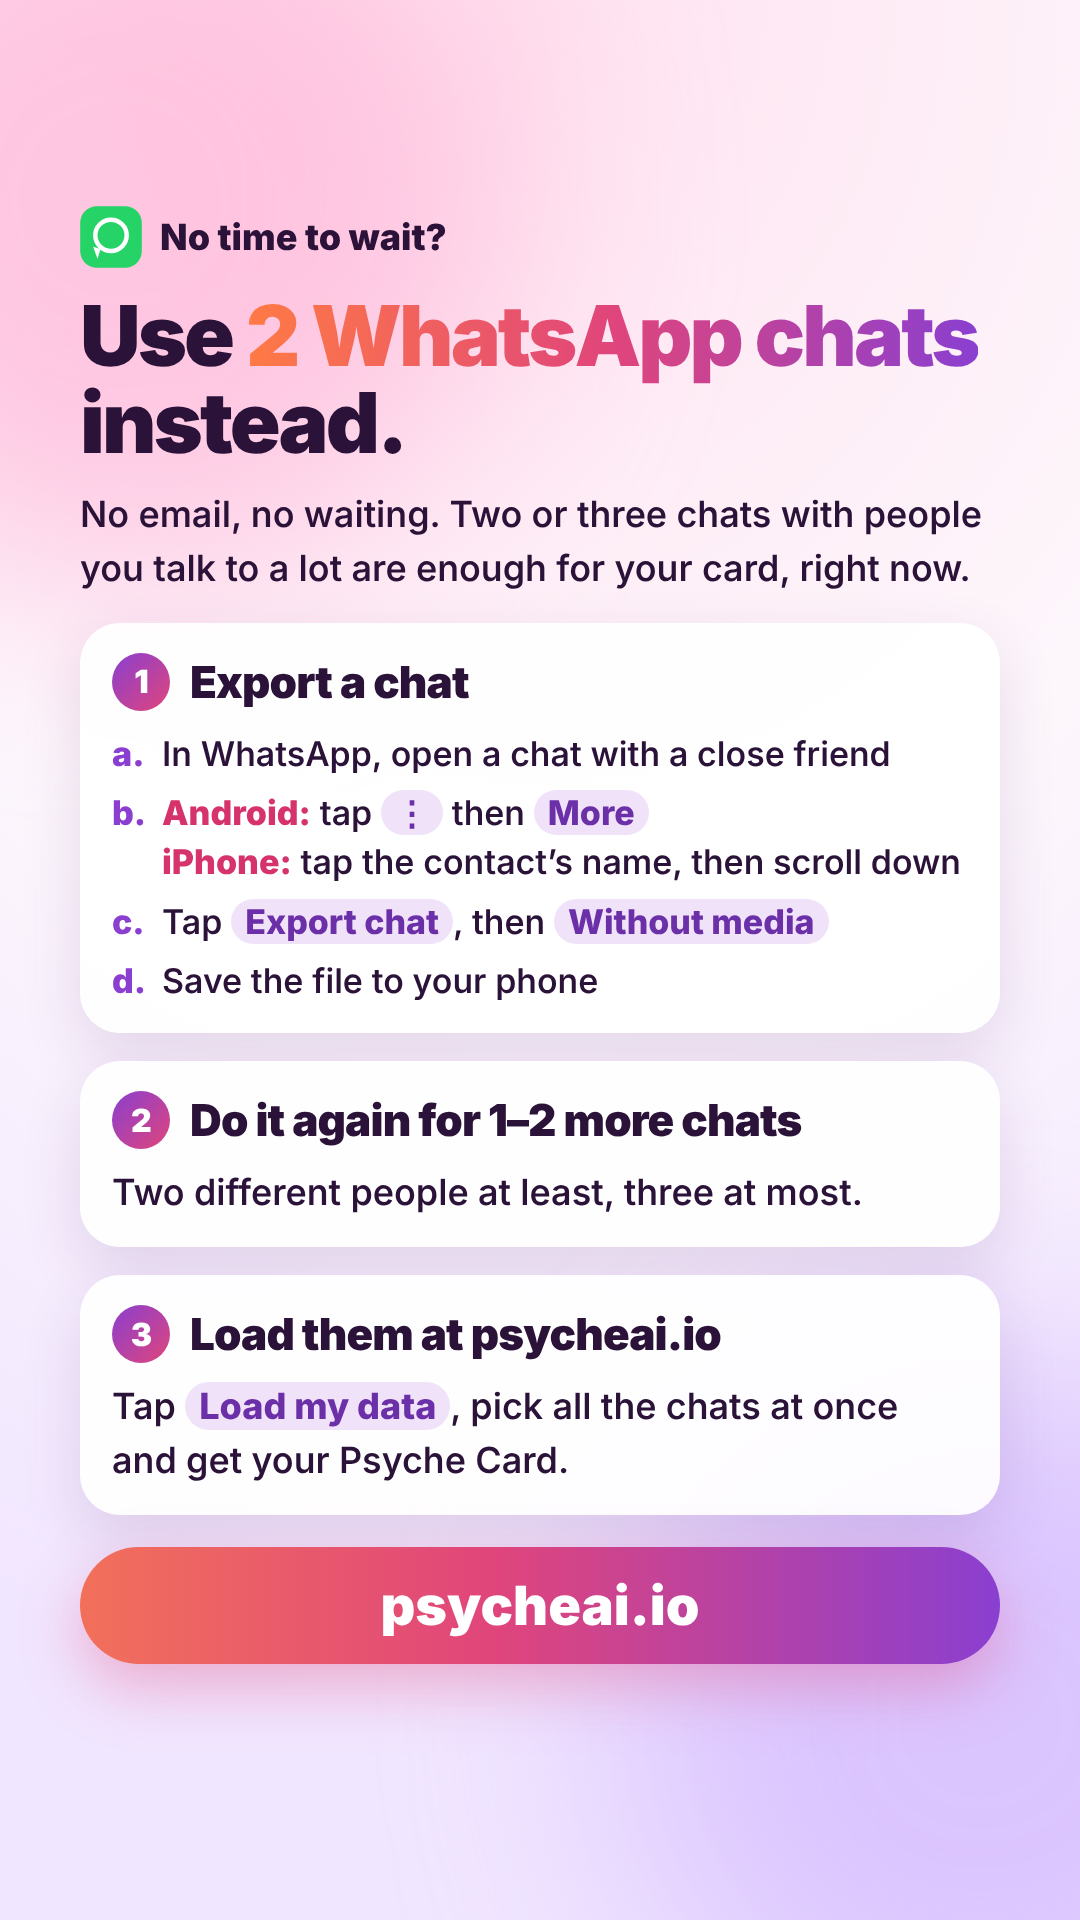
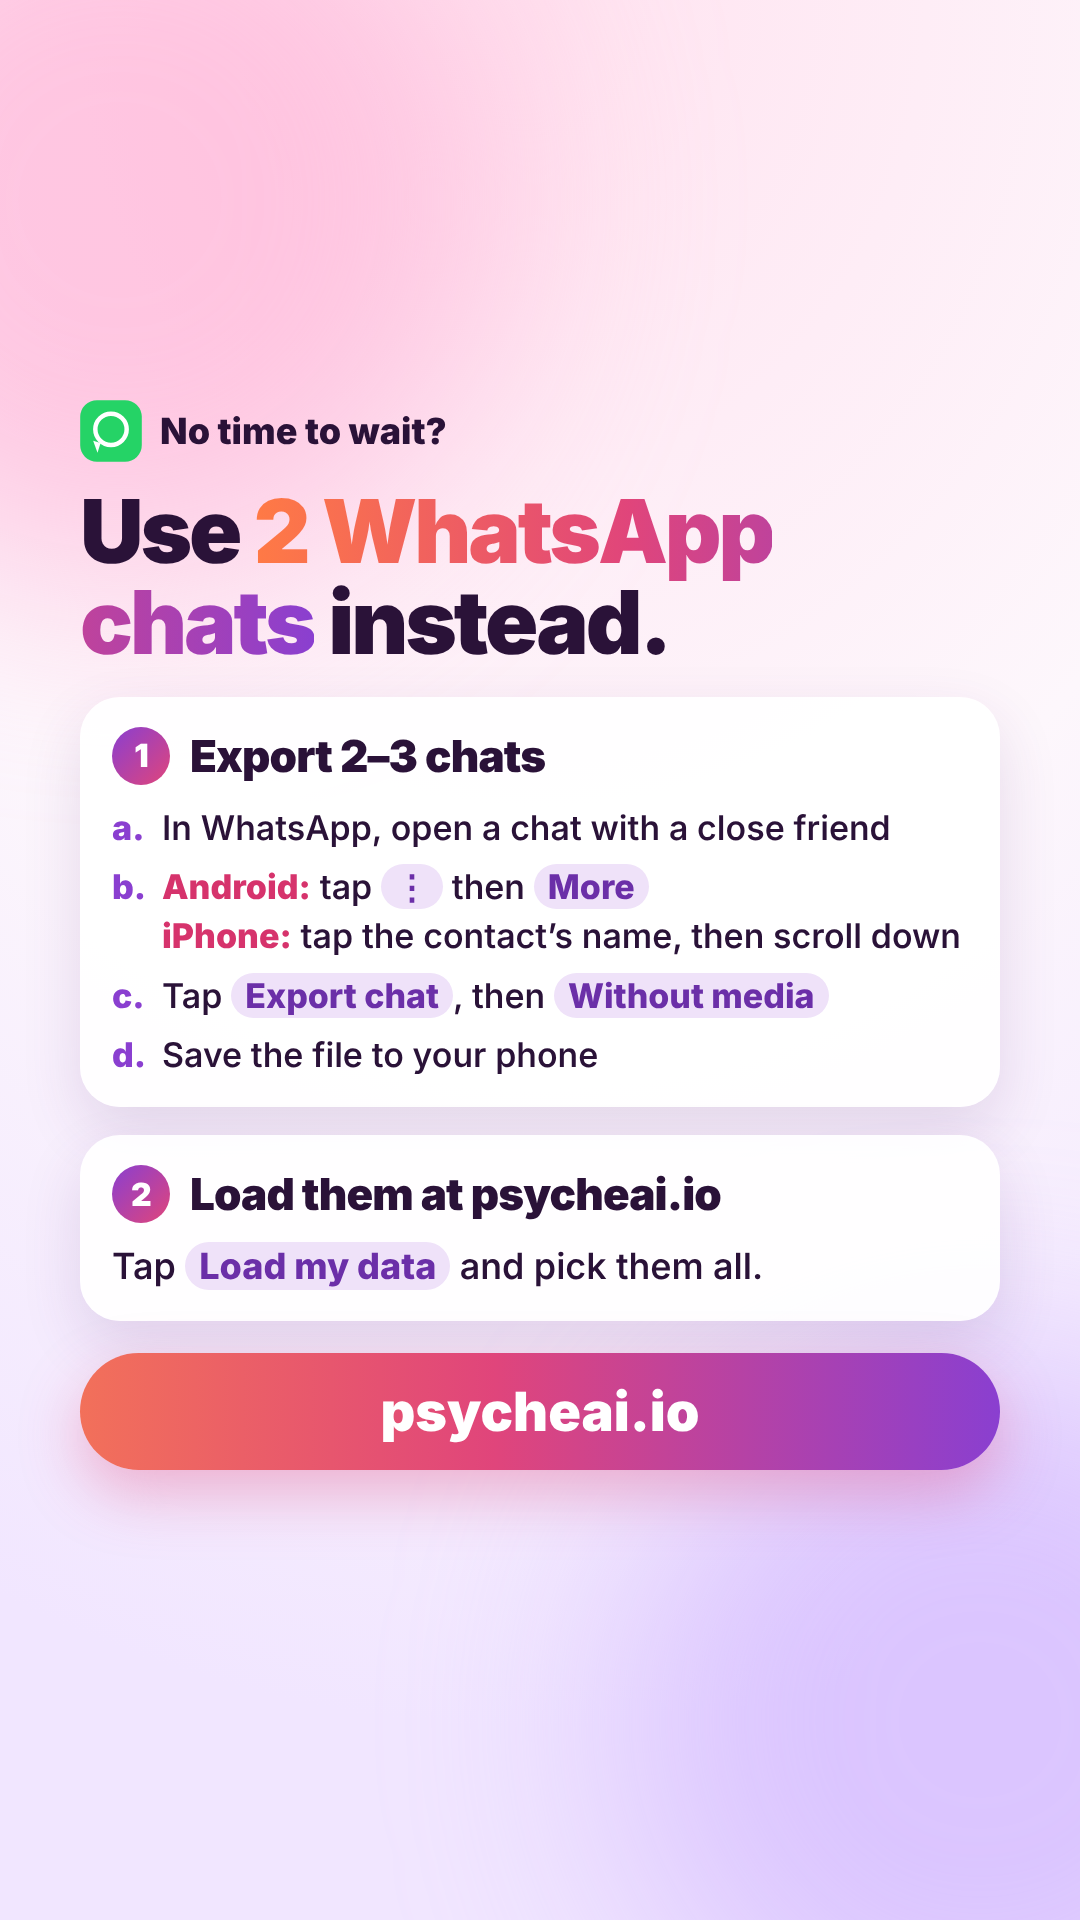
One status ring on every source row; front-page step wording; shorter story 5
- Add your data: every row shows one ring, empty until loaded, then green
  with a tick; WhatsApp's is in three parts, amber at one chat, green with
  the tick from two.
- How it works: no "(Google data is optional)", no "which writes your
  report", "Ask PsycheAI anything about yourself" under Gain insights, and
  no "Free." under Psyche Sync.
- Review: "Download (16KB)".
- Story start-5: a heading and two steps; step 1 keeps the full Android and
  iPhone taps.

Claude-Session: https://claude.ai/code/session_01JG1d877BBZBRM36WtZBvXb

Changed region(s): [[0.0611, 0.0938, 0.9472, 0.9062]]

diff --git a/docs/styles.css b/docs/styles.css
@@ -4755,17 +4755,34 @@ details.more[open] > summary::after { content: ' ▴'; }
 .ds-group.is-met::after { content: ' ✓'; }
 :root[data-theme="dark"] .ds-group.is-met { color: #6fd39b; }
 @media (prefers-color-scheme: dark) { :root:not([data-theme="light"]) .ds-group.is-met { color: #6fd39b; } }
-/* Not loaded yet: an empty ring where the tick will be. */
+/* One ring on every row (26 October 2026): empty until loaded, then green with a tick. WhatsApp's ring is
+   in three parts, one a chat, amber until the two it needs are in, then green with the tick. It replaced a
+   tick for single files beside three purple dots for the chats. */
 .datasources-dialog .mode-option:not(.is-added):not([data-datasource="whatsapp"])::after {
-  content: ''; margin-left: auto; flex: none; width: 1rem; height: 1rem; border-radius: 50%;
-  border: 1.5px solid var(--line);
+  content: ''; margin-left: auto; flex: none; box-sizing: border-box; width: 1.3rem; height: 1.3rem; border-radius: 50%;
+  border: 2.5px solid var(--line);
 }
-/* WhatsApp's chats as three dots, filled as they load; the third is a bonus,
-   so its ring is dashed. The count in words stays for screen readers. */
-.ds-dots { display: inline-flex; margin-left: auto; gap: .25rem; flex: none; align-self: center; }
-.ds-dots i { width: .62rem; height: .62rem; border-radius: 50%; border: 1.5px solid var(--accent); }
-.ds-dots i:nth-child(3) { border-style: dashed; }
-.ds-dots[data-n="1"] i:nth-child(1), .ds-dots[data-n="2"] i:nth-child(-n+2), .ds-dots[data-n="3"] i { background: var(--accent); }
+.datasources-dialog .mode-added {
+  display: grid; place-items: center; box-sizing: border-box; width: 1.3rem; height: 1.3rem; border-radius: 50%;
+  border: 2.5px solid var(--good); background: radial-gradient(circle, var(--good) 0 56%, transparent 60%);
+  color: #fff; font-size: .62rem; font-weight: 900;
+}
+.ds-dots { position: relative; display: block; margin-left: auto; flex: none; align-self: center; width: 1.3rem; height: 1.3rem;
+  --s1: var(--line); --s2: var(--line); --s3: var(--line); }
+.ds-dots i { display: none; }
+.ds-dots::before {
+  content: ''; position: absolute; inset: 0; border-radius: 50%;
+  background: conic-gradient(var(--s1) 0 114deg, transparent 0 120deg, var(--s2) 0 234deg, transparent 0 240deg, var(--s3) 0 354deg, transparent 0);
+  -webkit-mask: radial-gradient(circle closest-side, transparent calc(100% - 2.5px), #000 calc(100% - 2.5px));
+  mask: radial-gradient(circle closest-side, transparent calc(100% - 2.5px), #000 calc(100% - 2.5px));
+}
+.ds-dots[data-n="1"] { --s1: #e8b44e; }
+.ds-dots[data-n="2"] { --s1: var(--good); --s2: var(--good); }
+.ds-dots[data-n="3"] { --s1: var(--good); --s2: var(--good); --s3: var(--good); }
+.ds-dots[data-n="2"]::after, .ds-dots[data-n="3"]::after {
+  content: '✓'; position: absolute; inset: 4px; display: grid; place-items: center; border-radius: 50%;
+  background: var(--good); color: #fff; font-size: .55rem; font-weight: 900; line-height: 1;
+}
 .datasources-dialog .mode-option[data-datasource="whatsapp"] .mode-added { display: none; }
 .datasources-dialog .mode-option[data-datasource="whatsapp"] .mode-body > .muted {
   position: absolute; width: 1px; height: 1px; overflow: hidden; clip: rect(0 0 0 0); white-space: nowrap;

diff --git a/promo/stories-stage.html b/promo/stories-stage.html
@@ -200,12 +200,12 @@ h2 { margin-top: 22px; font-size: 80px; font-weight: 900; letter-spacing: -0.035
 
 <section class="slide light guide" data-name="start-5">
   <div class="blob b1"></div><div class="blob b2"></div>
+  <!-- Shorter (26 October 2026): a heading, two steps, the address; step 1 keeps the full Android and iPhone taps. -->
   <div class="in" style="justify-content:center">
     <div class="brandline"><div class="ic wa" style="transform:scale(.56);margin:-24px"></div><span>No time to wait?</span></div>
-    <h2 class="gtitle" style="font-size:84px">Use <span class="grad">2 WhatsApp chats</span> instead.</h2>
-    <p class="gp" style="margin-top:20px;font-size:36px">No email, no waiting. Two or three chats with people you talk to a lot are enough for your card, right now.</p>
+    <h2 class="gtitle" style="font-size:88px">Use <span class="grad">2 WhatsApp chats</span> instead.</h2>
     <div class="gcard">
-      <div class="ghead"><span class="gnum">1</span>Export a chat</div>
+      <div class="ghead"><span class="gnum">1</span>Export 2–3 chats</div>
       <ol class="gsteps">
         <li><i>a.</i>In WhatsApp, open a chat with a close friend</li>
         <li><i>b.</i><strong>Android:</strong> tap <em>⋮</em> then <em>More</em><br><strong>iPhone:</strong> tap the contact’s name, then scroll down</li>
@@ -214,12 +214,8 @@ h2 { margin-top: 22px; font-size: 80px; font-weight: 900; letter-spacing: -0.035
       </ol>
     </div>
     <div class="gcard">
-      <div class="ghead"><span class="gnum">2</span>Do it again for 1–2 more chats</div>
-      <p class="gp">Two different people at least, three at most.</p>
-    </div>
-    <div class="gcard">
-      <div class="ghead"><span class="gnum">3</span>Load them at psycheai.io</div>
-      <p class="gp">Tap <em>Load my data</em>, pick all the chats at once and get your Psyche Card.</p>
+      <div class="ghead"><span class="gnum">2</span>Load them at psycheai.io</div>
+      <p class="gp">Tap <em>Load my data</em> and pick them all.</p>
     </div>
     <div class="gbtn">psycheai.io</div>
   </div>

diff --git a/docs/index.html b/docs/index.html
@@ -237,13 +237,13 @@
   <h2 class="row-head">How it works</h2>
   <div class="steps-row">
     <div class="step-card"><span class="step-num">1</span><h3>Load your IG data</h3>
-      <p>Download your data from Instagram, or export 2–3 WhatsApp chats (Google data is optional). See <a href="#request-data" class="step-below">below</a> for instructions.</p></div>
+      <p>Download your data from Instagram, or export 2–3 WhatsApp chats. See <a href="#request-data" class="step-below">below</a> for instructions.</p></div>
     <div class="step-card"><span class="step-num">2</span><h3>PsycheAI reads it</h3>
-      <p>A short, de-identified summary of your data is analysed by Google Vertex AI, which writes your report. No data is stored by PsycheAI.</p></div>
+      <p>A short, de-identified summary of your data is analysed by Google Vertex AI. No data is stored by PsycheAI.</p></div>
     <div class="step-card"><span class="step-num">3</span><h3>Gain insights</h3>
-      <p>Learn more about your personality, relationships, and career. Your report is private to your device.</p></div>
+      <p>Learn more about your personality, relationships, and career. Ask PsycheAI anything about yourself. Your report is private to your device.</p></div>
     <div class="step-card"><span class="step-num">4</span><h3>Psyche Sync</h3>
-      <p>Send connections your link and see what clicks between you, and how to relate better to each other. Free.</p></div>
+      <p>Send connections your link and see what clicks between you, and how to relate better to each other.</p></div>
   </div>
 
   <!-- The four branches are the report's own sections, named as the report

diff --git a/docs/copy.js b/docs/copy.js
@@ -868,7 +868,7 @@
       quality: 'Quality',
       qualities: ['Thin', 'Fair', 'Good', 'Strong'],
       // The download, with the size of what is sent (one row with the read quality, 26 October 2026).
-      download: kb => 'Download summary (' + kb + ' KB)',
+      download: kb => 'Download (' + kb + 'KB)',
       alsoLeftOut: 'Also left out',
     },
     freeUsedBlurb: 'This Instagram account has already had its free Psyche Card. Unlock your Psyche Card and Psyche Report for US$5.',

diff --git a/README.md b/README.md
@@ -1454,6 +1454,11 @@ file types the box now sorts by itself, and kept the help a first-timer needs at
 - Continue is set back (half strength) until a first upload has what it needs, and still says what is
   missing if pressed;
 - Restore from a backup sits under the buttons, out of Continue's way.
+- **One ring on every row** (26 October 2026, chosen from three mock-ups over a tick + count and a status
+  pill): an empty grey ring until a source is loaded, then green with a white tick. WhatsApp's ring is in
+  three parts, one a chat, amber at one chat and green with the tick from two, the minimum. It replaced a
+  green tick for single files beside three purple dots for the chats. Drawn in CSS on the same markup
+  (`.mode-added`, `.ds-dots[data-n]`), so nothing in app.js changed.
 
 The report page's popouts share the rows: no tags, no "Required" pill, the same rings and dots. Only
 Instagram kept a second line, *A new .zip replaces it – pick every part*, until 26 October 2026, when
@@ -5249,7 +5254,7 @@ it down as far as they like, line by line, and see what that costs. It was mocke
   Pressing it no longer takes the focus (pointerdown is cancelled); pressed, the word is added and the
   keyboard goes, while Enter keeps it up for the next word.
 - **The foot, one row** (26 October 2026): *Quality* (was *Read quality*), its bar and word, then
-  *Download summary (16 KB)*, the size in the link's own words (it was a line of its own, *~16 KB of text*
+  *Download (16KB)*, the size in the link's own words (it was a line of its own, *~16 KB of text*
   beside *Download what's sent*); on a phone under about 360px the link drops to a second line. The file
   is `psycheai-summary.html` (was `psycheai-digest-preview.html`) and says *summary*, the word the reels
   and the privacy page use. The *↑ Least personal / Most personal ↓* labels under the list are gone.

diff --git a/promo/README.md b/promo/README.md
@@ -459,8 +459,8 @@ four data sources it reads; the free card (Emily Carter's Mulan card, large, its
 card-char-mulan-parts.json); what else there is (report, Ask PsycheAI,
 Psyche Sync, the roast; "free to start" once, in the heading); the guide as the account's pinned post lays it out
 (every tap, each button a chip). Then, for a reader with no time to wait for Instagram's email (26 October 2026), the same guide for two
-WhatsApp chats instead: export a chat (Android ⋮ → More, iPhone the contact's name) → Export chat → Without media, again for
-one or two more people, then load them all at once. *Privacy* (4): two questions to a story, each answered in the FAQ's own words, shortened, so every claim stays
+WhatsApp chats instead, shortened the same day to two steps: export 2–3 chats (the full taps: Android ⋮ → More,
+iPhone the contact's name then scroll down; Export chat, Without media; save the file), then load them at psycheai.io. *Privacy* (4): two questions to a story, each answered in the FAQ's own words, shortened, so every claim stays
 literally true (the file never leaves the phone; how the summary is de-identified; no one else can get at it, even
 if PsycheAI were hacked; no training on it; a password only in Instagram, no accounts, results only on the device;
 the airplane-mode check), and the last story to itself, why not ChatGPT: consumer AI against PsycheAI, said as the
